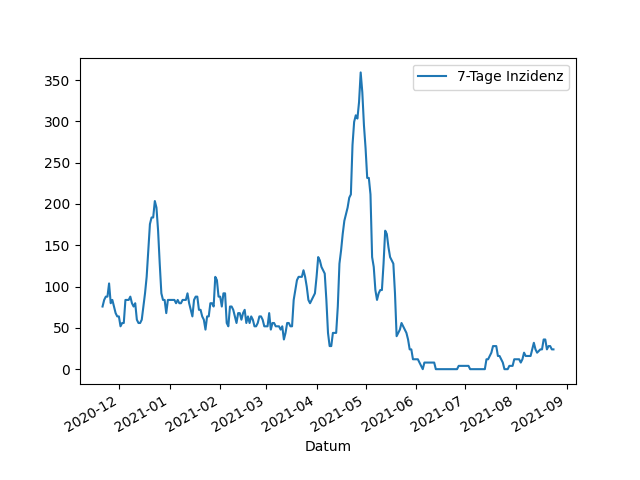
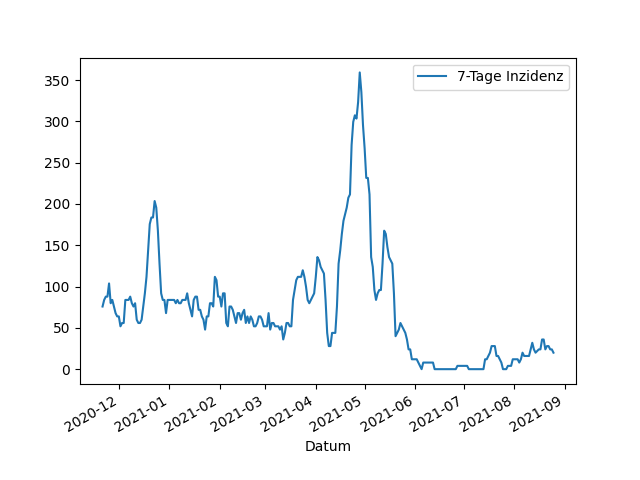
Update images

diff --git a/_includes/aktuelle_inzidenz.md b/_includes/aktuelle_inzidenz.md
@@ -1,1 +1,1 @@
-24,0
+20,0
